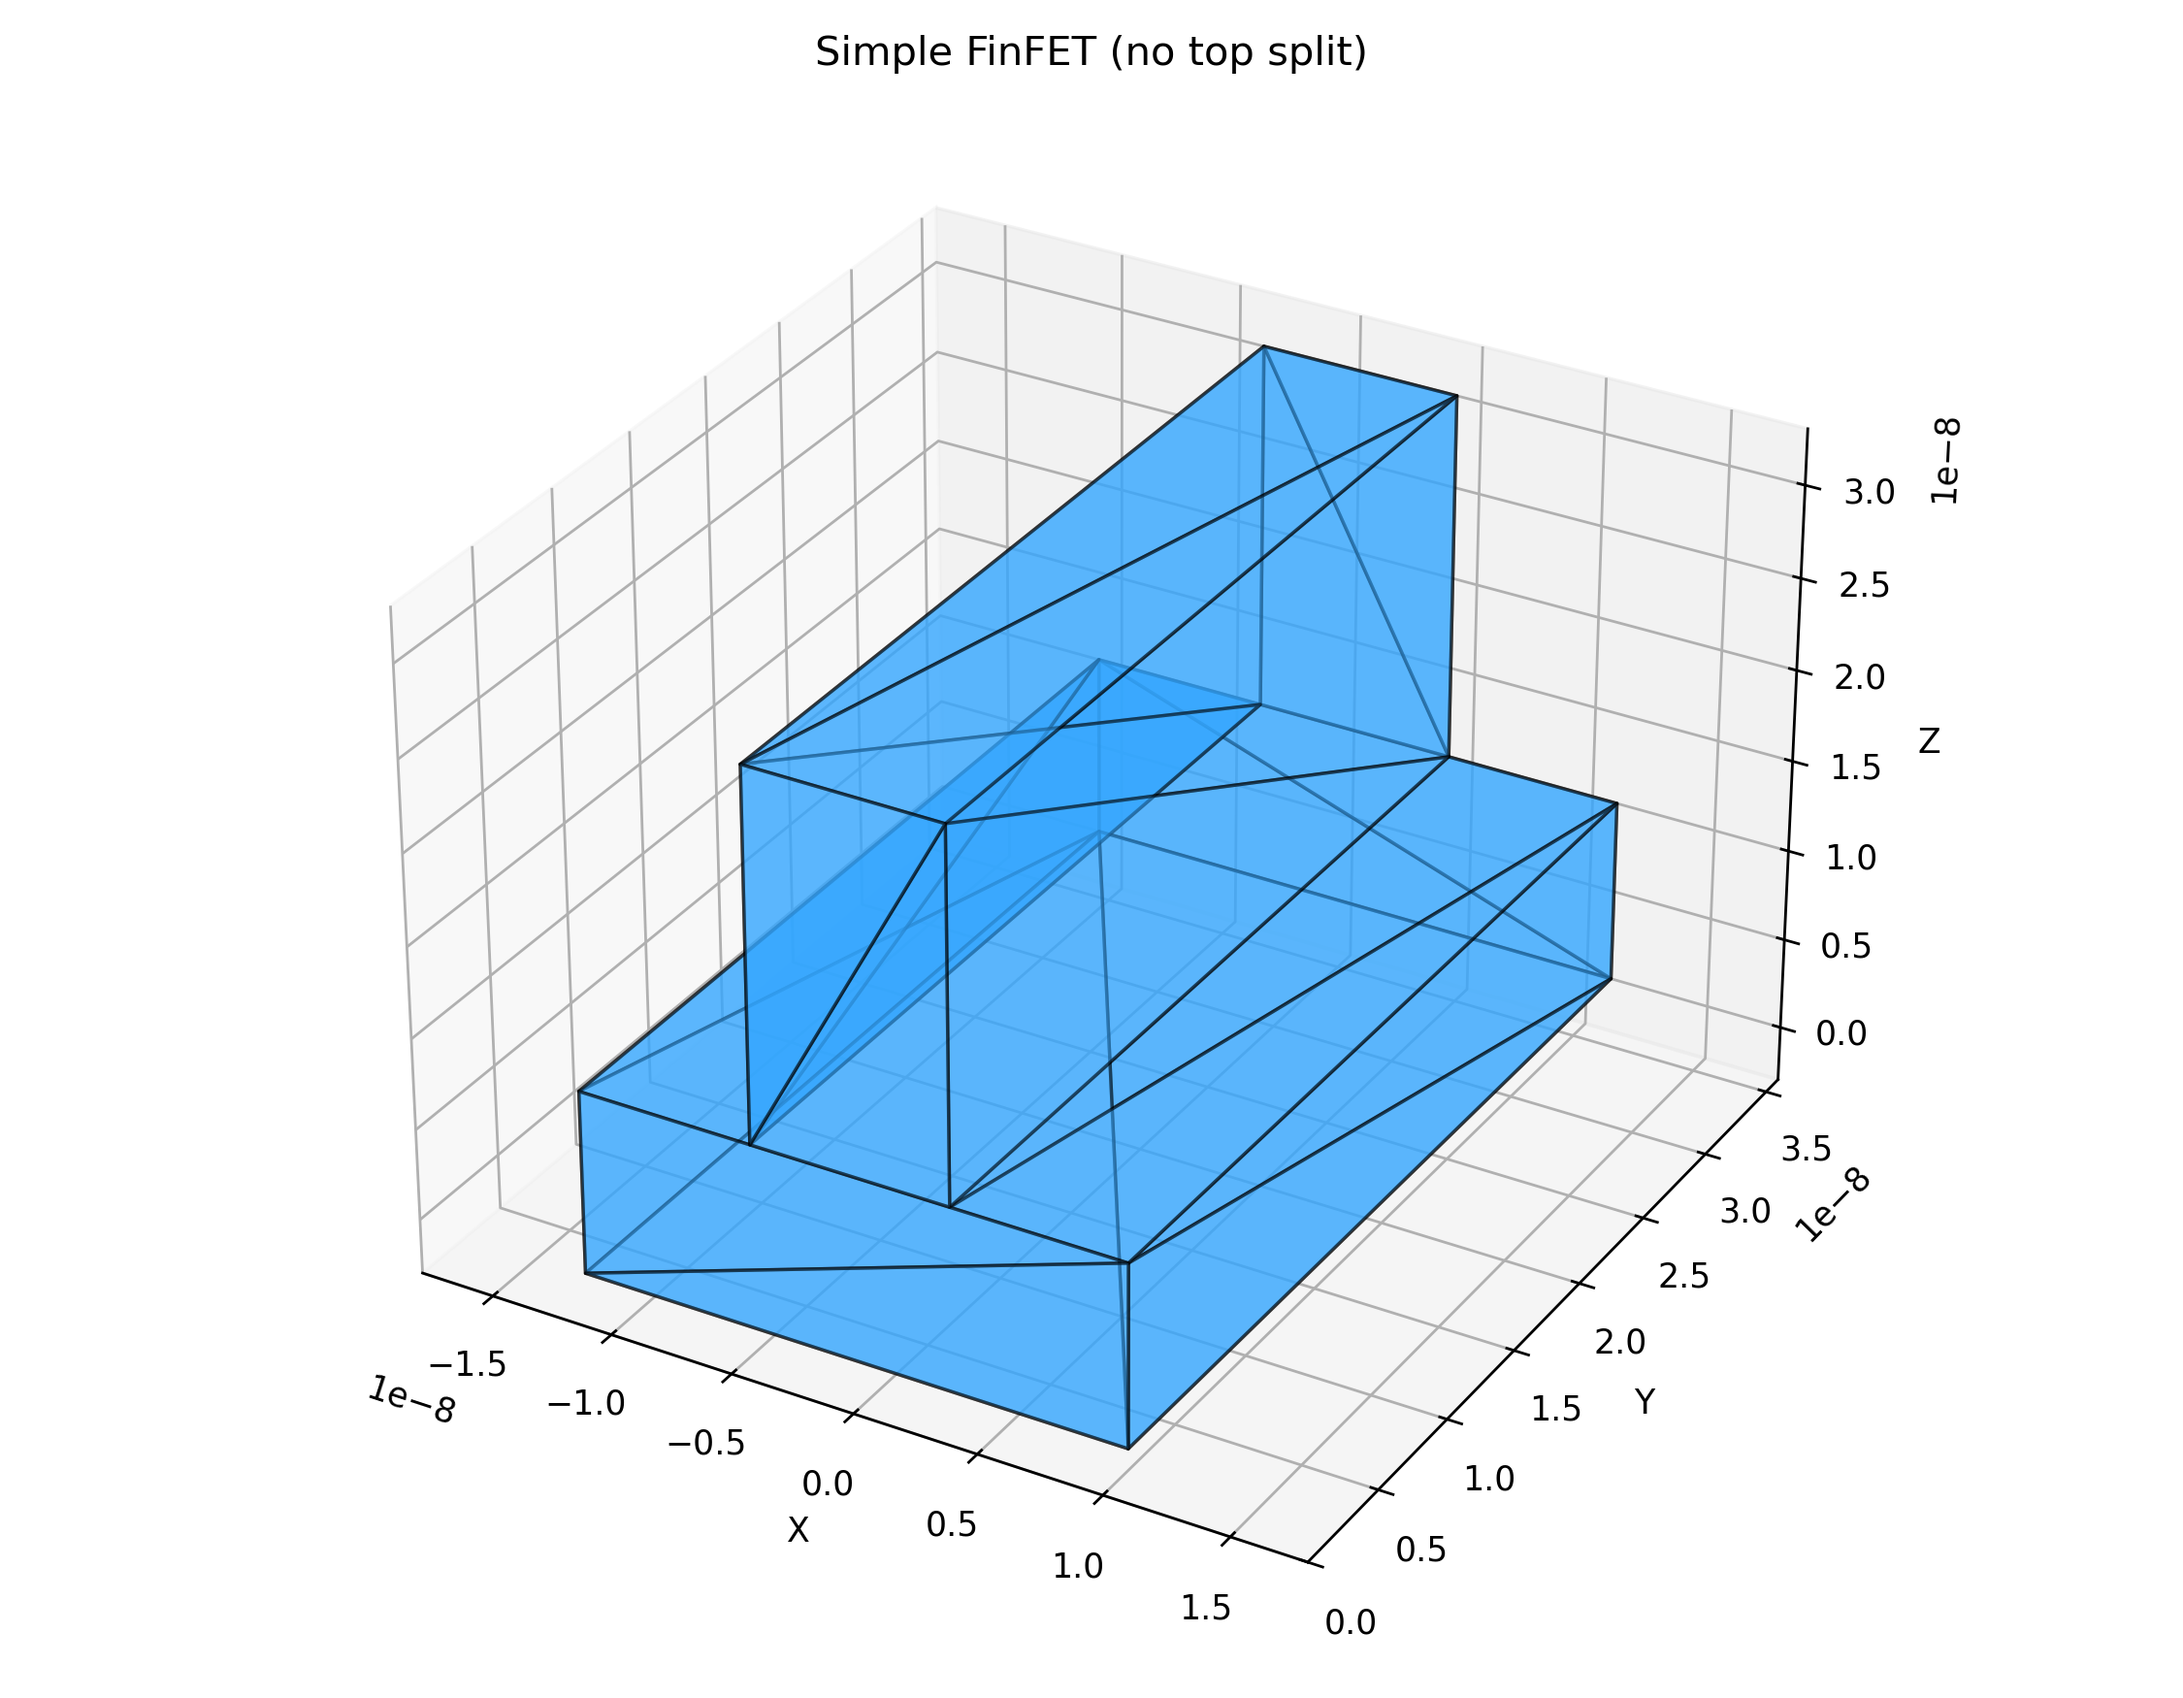
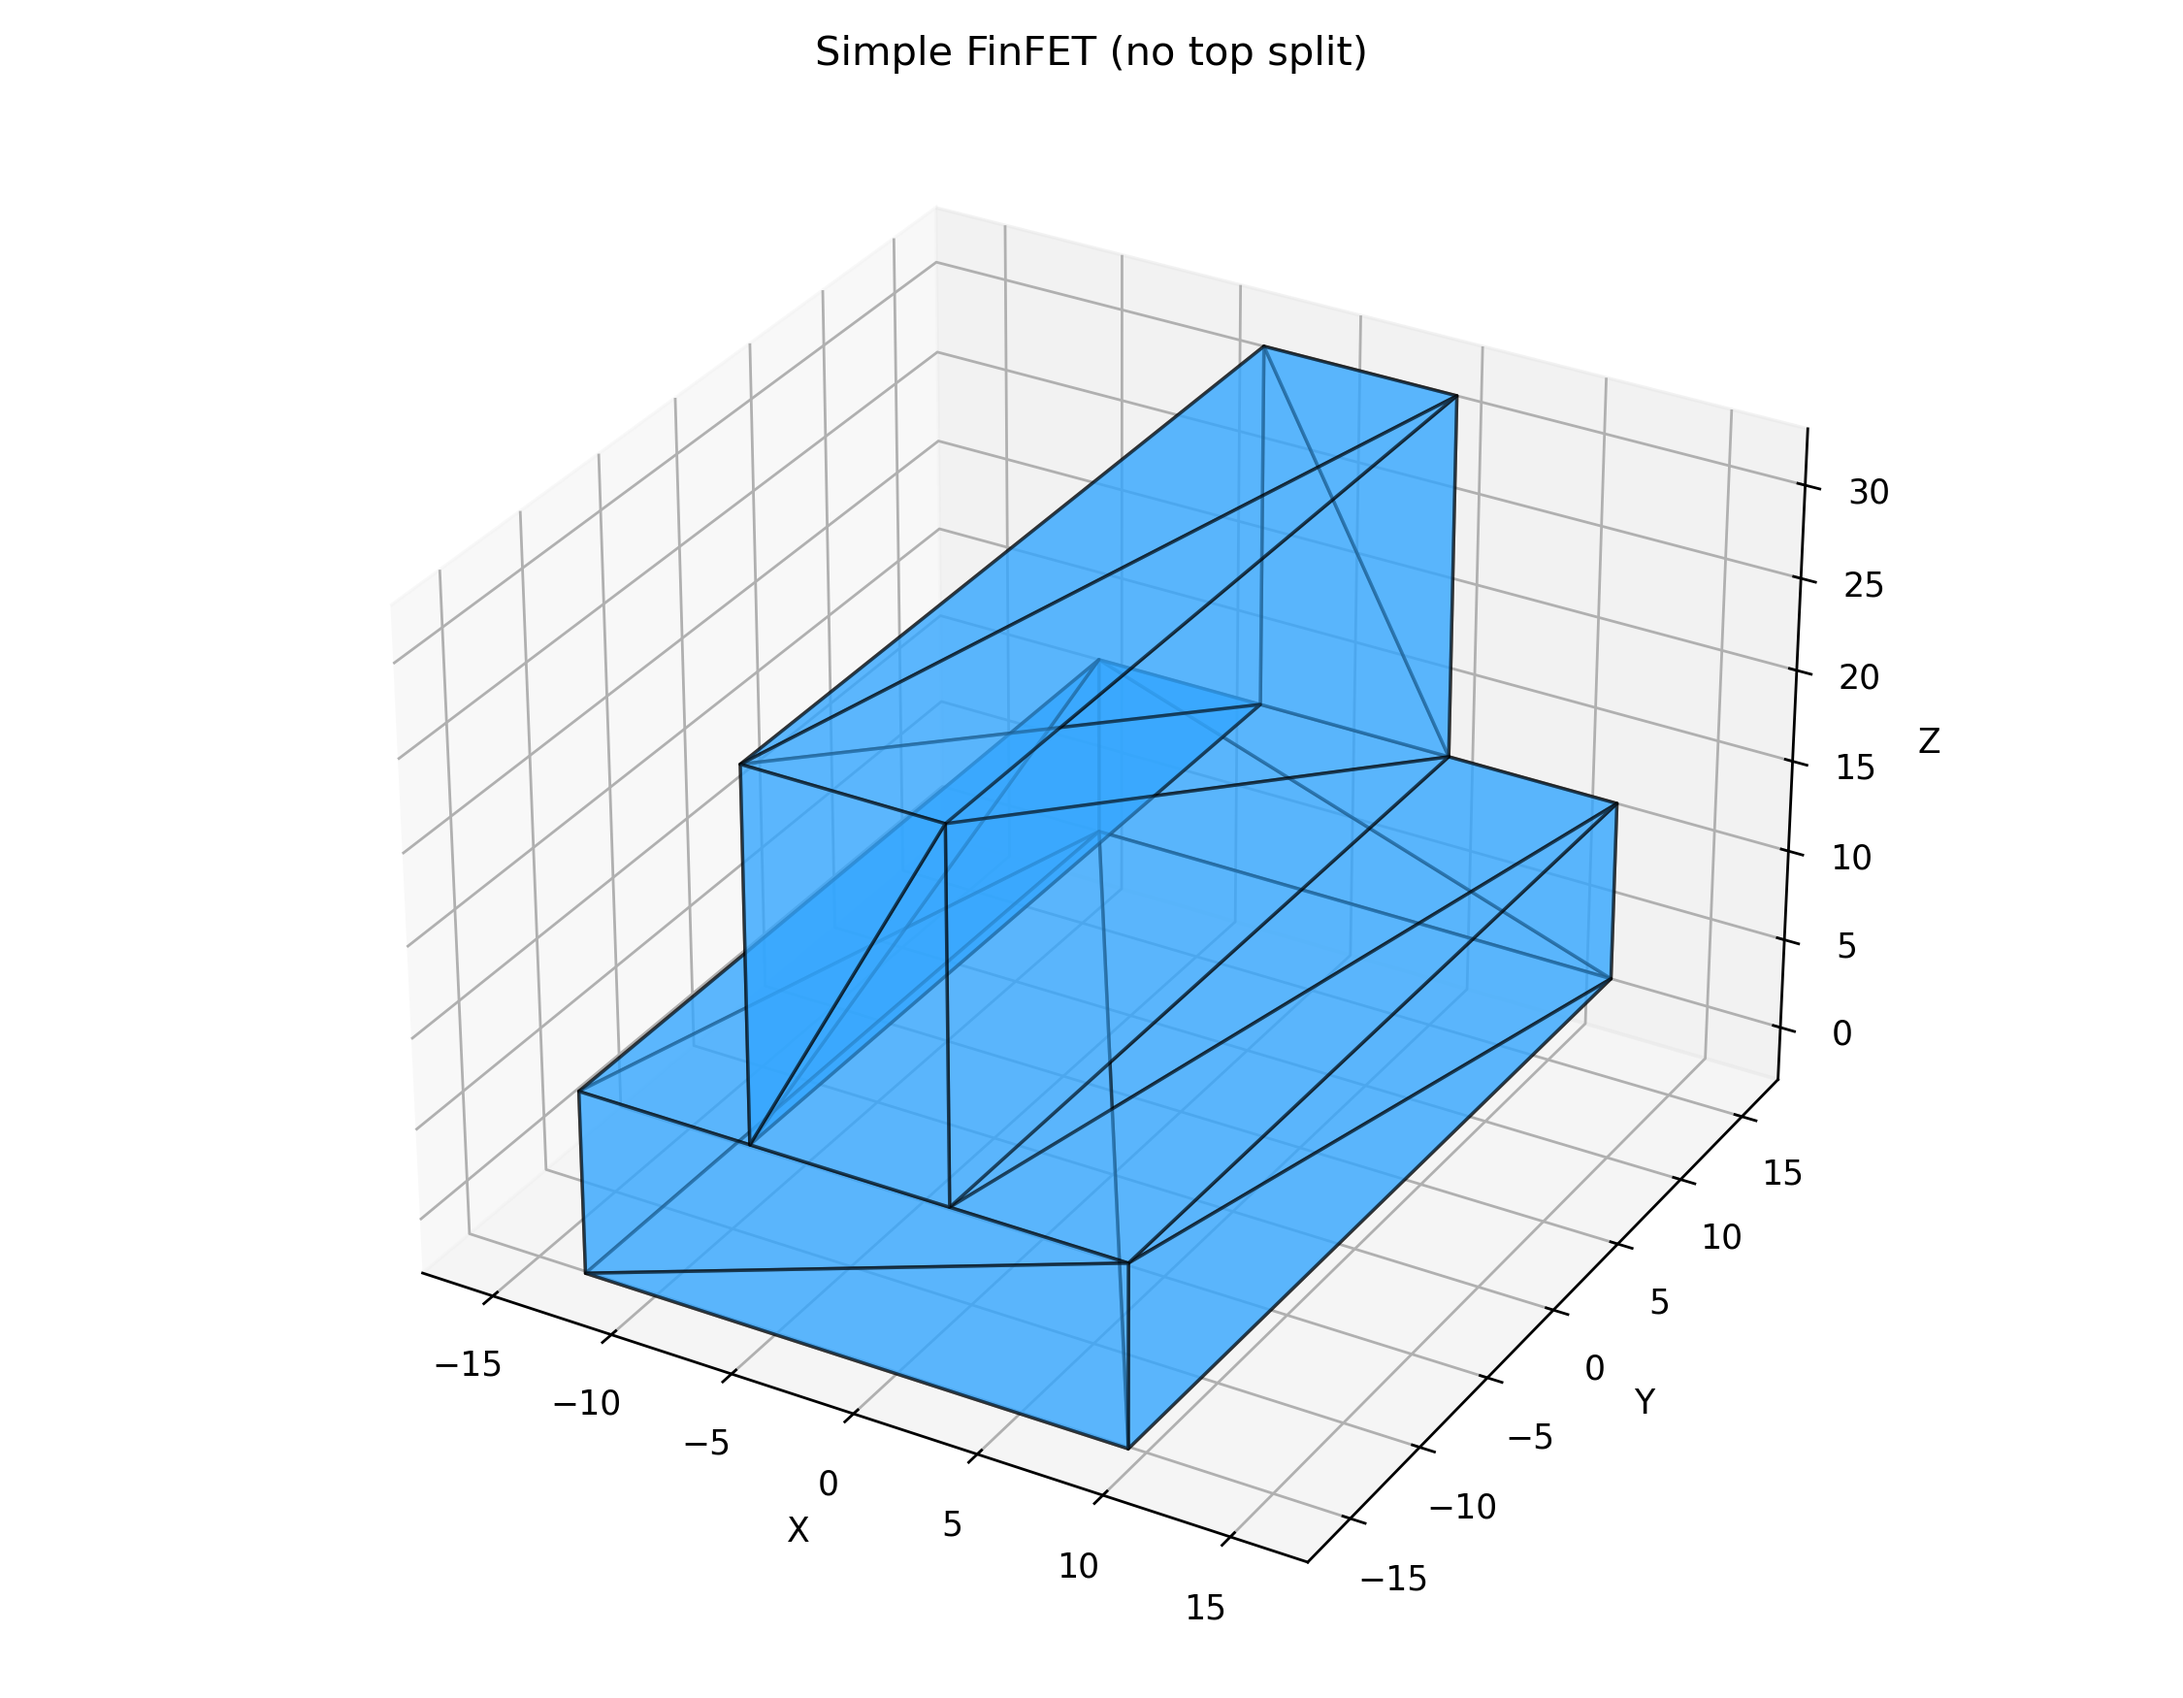
modify fitting method and fet

diff --git a/tools/generate_finfet_stl.py b/tools/generate_finfet_stl.py
@@ -119,20 +119,22 @@ def _build_simple_finfet(
     x_s_half = 0.5 * stem_width
     z_base = base_height
     z_top = base_height + stem_height
+    y0 = -0.5 * thickness_y
+    y1 = 0.5 * thickness_y
 
-    # Front face (y=0), 8 points.
+    # Front face (y=-thickness/2), 8 points.
     vf: List[Vec3] = [
-        (-x_b_half, 0.0, 0.0),      # 0
-        (x_b_half, 0.0, 0.0),       # 1
-        (x_b_half, 0.0, z_base),    # 2
-        (x_s_half, 0.0, z_base),    # 3
-        (x_s_half, 0.0, z_top),     # 4
-        (-x_s_half, 0.0, z_top),    # 5
-        (-x_s_half, 0.0, z_base),   # 6
-        (-x_b_half, 0.0, z_base),   # 7
+        (-x_b_half, y0, 0.0),      # 0
+        (x_b_half, y0, 0.0),       # 1
+        (x_b_half, y0, z_base),    # 2
+        (x_s_half, y0, z_base),    # 3
+        (x_s_half, y0, z_top),     # 4
+        (-x_s_half, y0, z_top),    # 5
+        (-x_s_half, y0, z_base),   # 6
+        (-x_b_half, y0, z_base),   # 7
     ]
 
-    vb = [(x, thickness_y, z) for (x, _, z) in vf]  # 8..15
+    vb = [(x, y1, z) for (x, _, z) in vf]  # 8..15
     vertices: List[Vec3] = vf + vb
 
     faces: List[Face] = []

diff --git a/src/MonteCarloSolver.cpp b/src/MonteCarloSolver.cpp
@@ -982,15 +982,6 @@ void MonteCarloSolver::update_heat_flux_and_conductivity(const SimulationDomain&
     const auto& centers = geometry.grid_centers();
     int i0 = 0;
     int i1 = nsv - 1;
-    if (nsv >= 6) {
-        const int cut = std::max(1, nsv / 5);  // remove edge-biased zones near reservoirs
-        i0 = cut;
-        i1 = nsv - 1 - cut;
-    }
-    if (i1 - i0 + 1 < 2) {
-        i0 = 0;
-        i1 = nsv - 1;
-    }
 
     double sx = 0.0;
     double st = 0.0;
